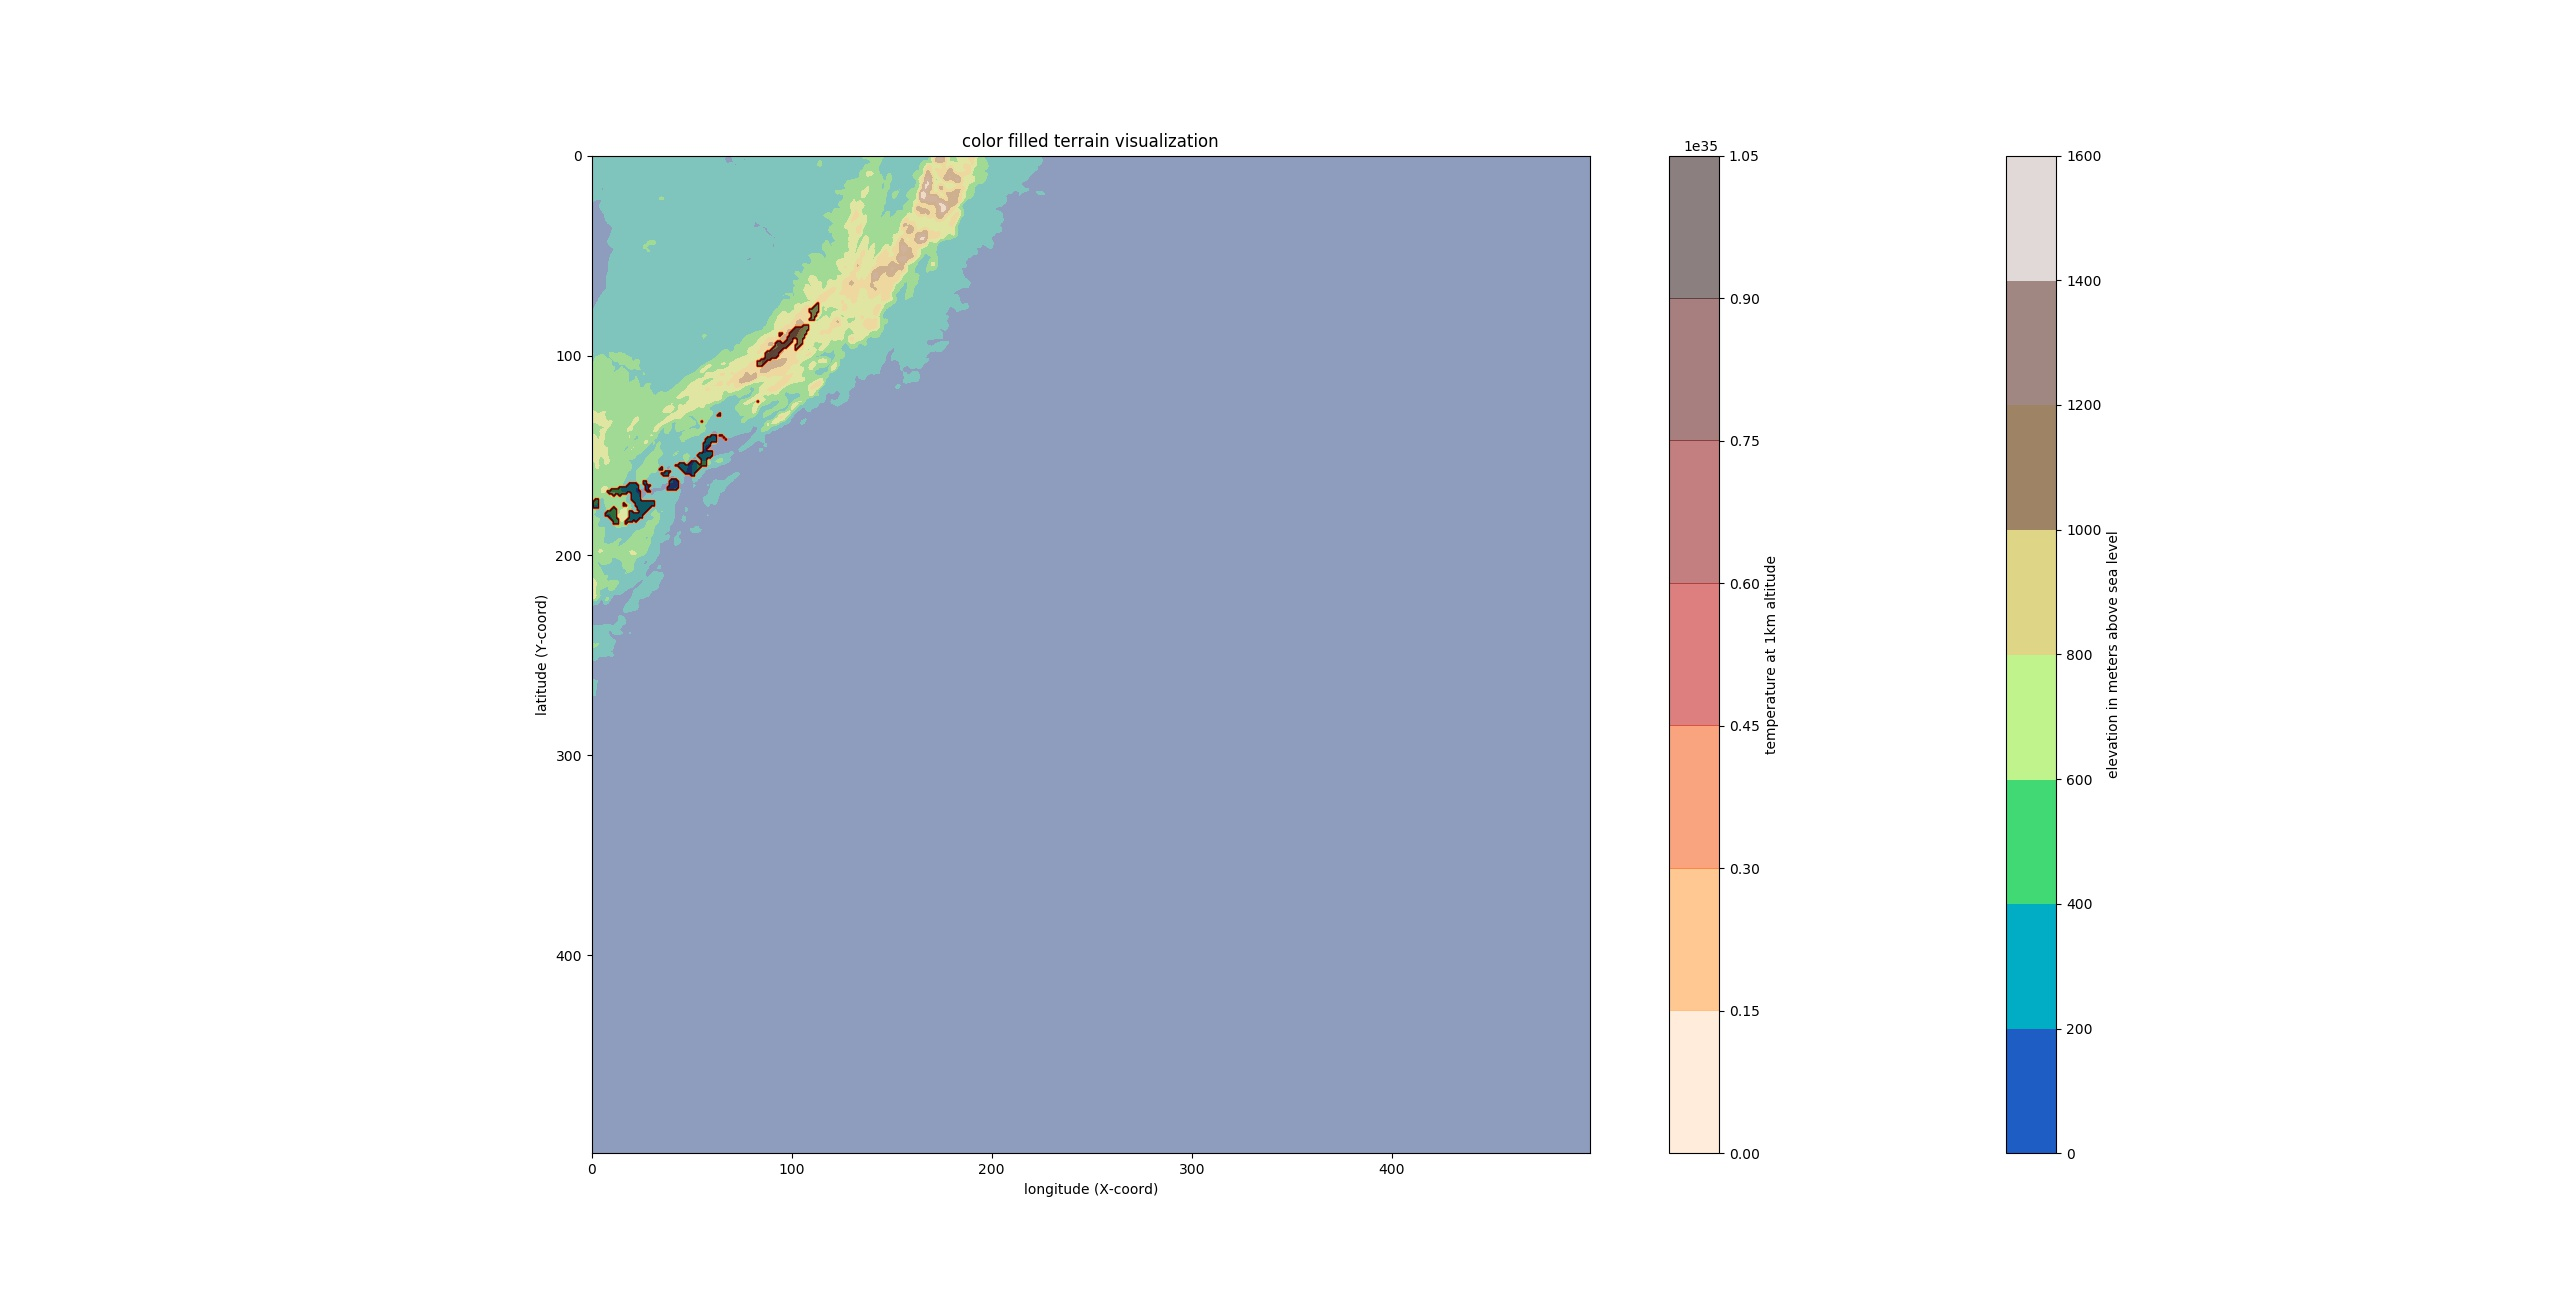
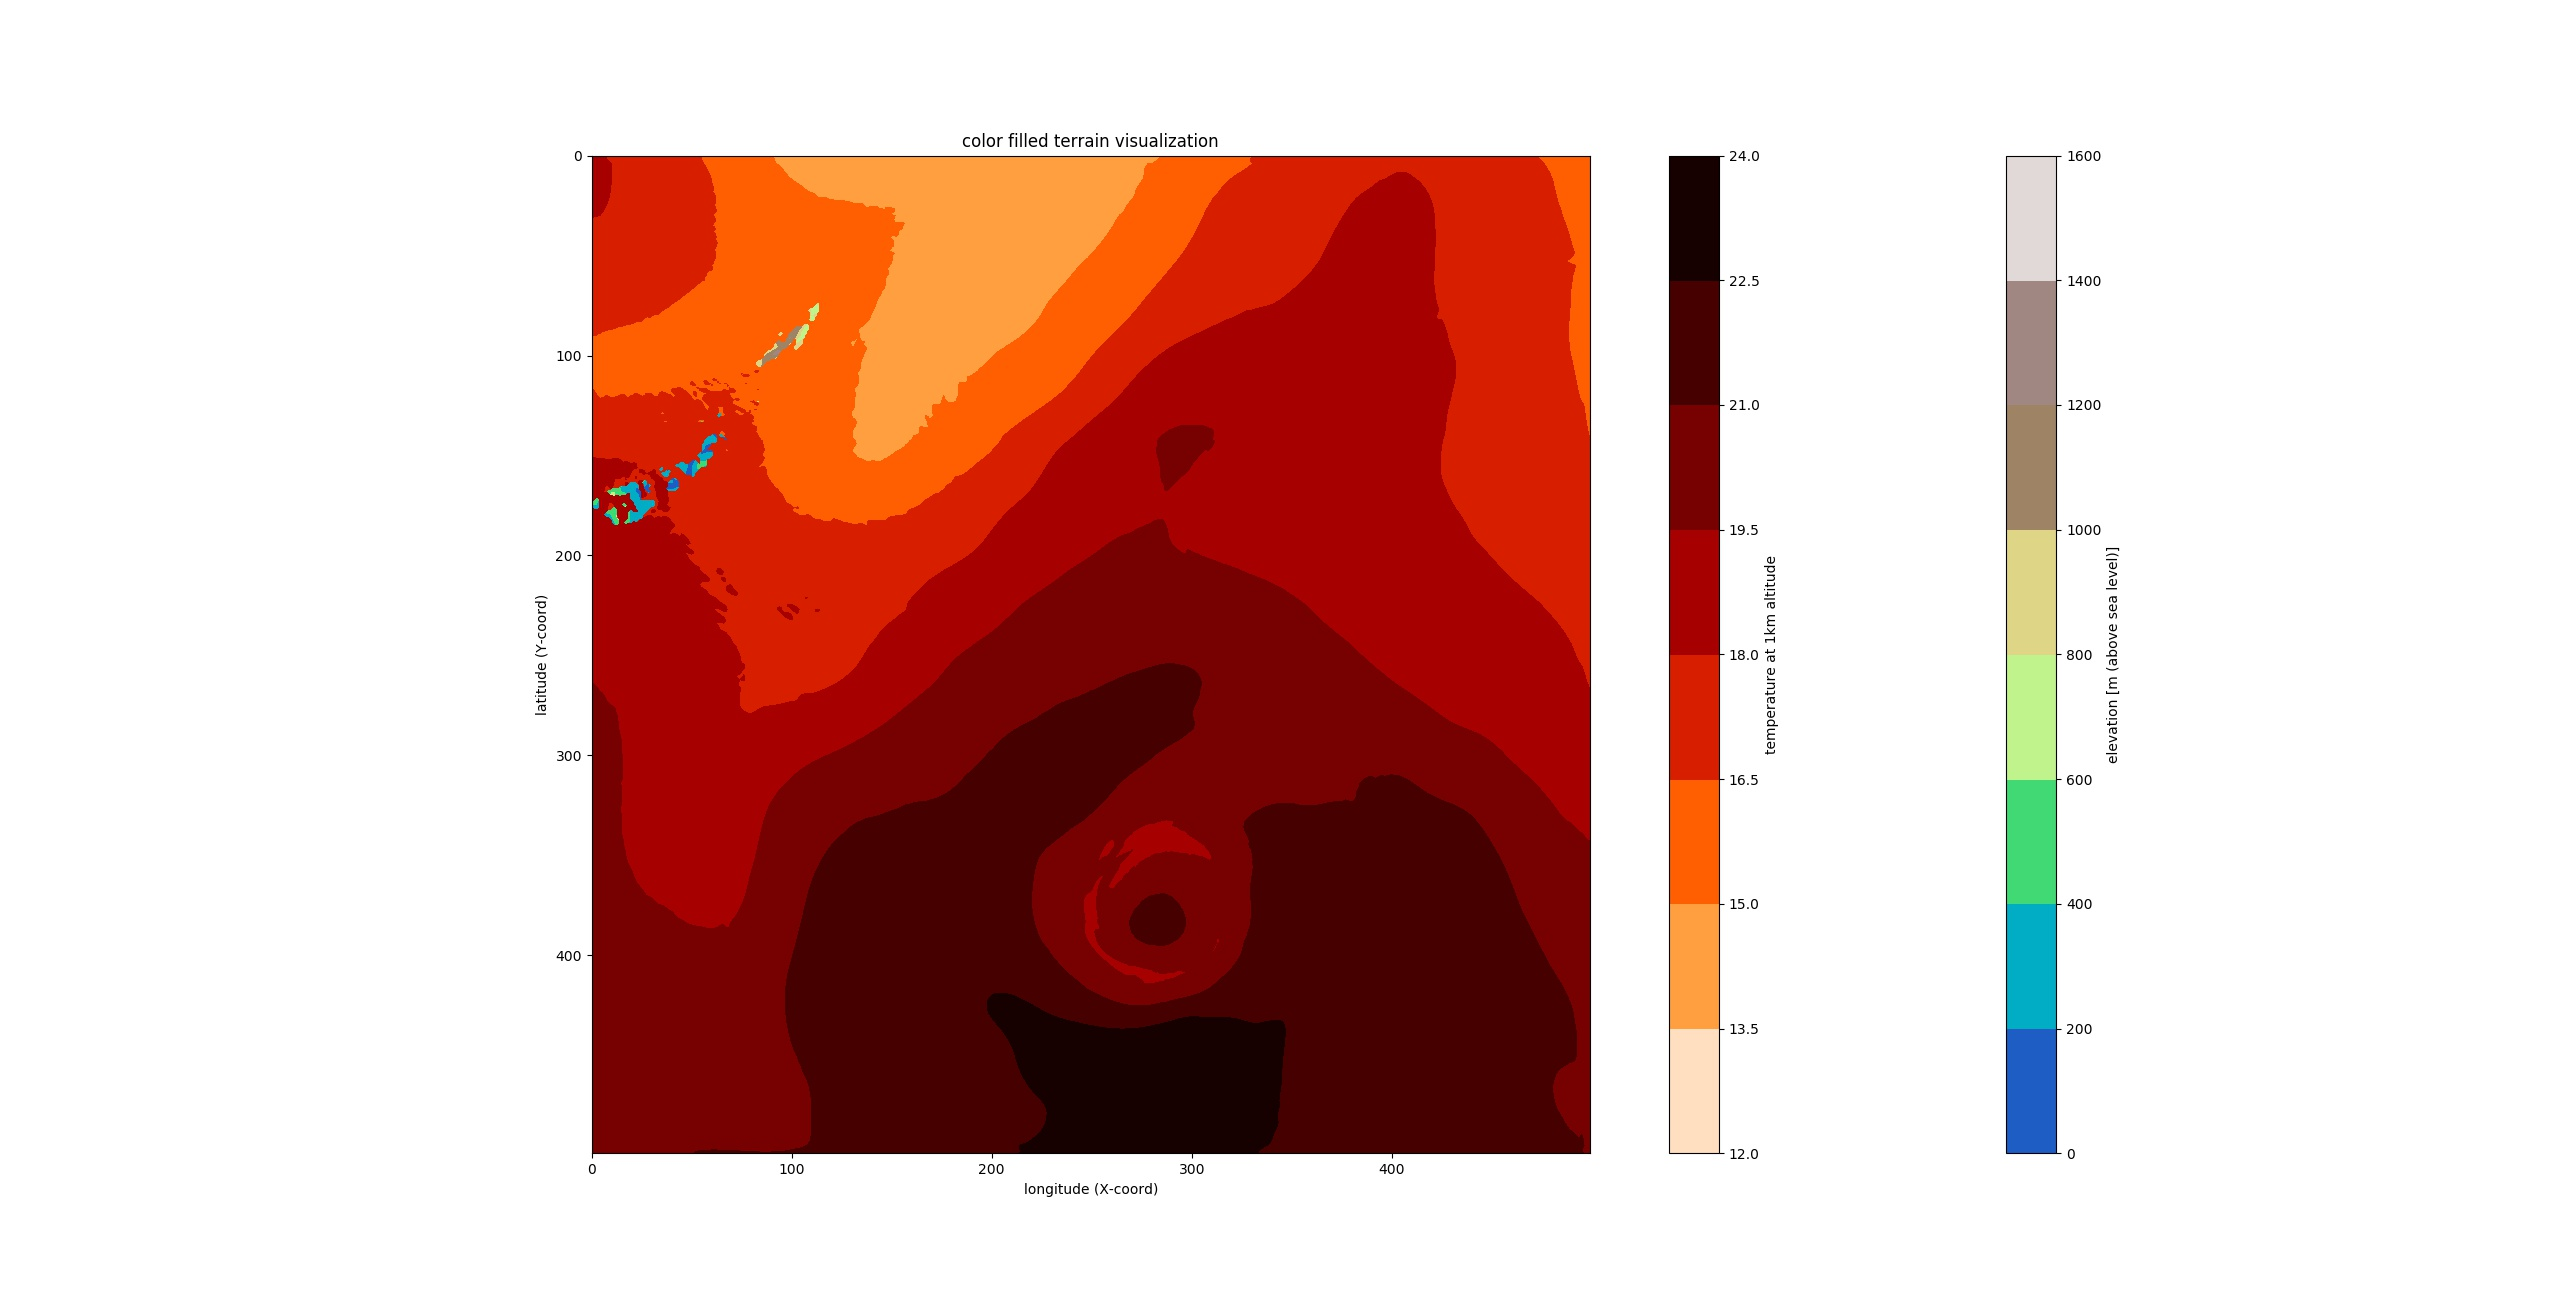
updated ex4_task4.jpeg: replaced corrupted datafile

diff --git a/ex4/ex4_task4.py b/ex4/ex4_task4.py
@@ -8,8 +8,19 @@ import ex4_reader as data_reader
 import matplotlib.pyplot as plt
 import numpy as np
 
+# z-value constants
+MIN_HEIGHT = 0.035
+MAX_HEIGHT = 19.835
+STEP_SIZE = 0.2
+
+# desired height
+HEIGHT = 1.0
+
+# x-values: list containing the heights of the plot
+heights = np.arange(MIN_HEIGHT, MAX_HEIGHT + STEP_SIZE, STEP_SIZE)
+
 # load the terrain data
-terrain_data = data_reader.read_terrain_data()
+terr_data = data_reader.read_terrain_data()
 
 # create the plot 
 fig, plot = plt.subplots()
@@ -23,28 +34,34 @@ plot.set_xlabel("longitude (X-coord)")
 plot.set_ylabel("latitude (Y-coord)")
 plot.set_aspect(1)
 
-# invert the y and x axis
+# invert the y axis
 plot.invert_yaxis()
 
-# plot the data
-terrain_plot = plot.contourf(terrain_data, alpha=1.0, cmap='terrain')
+# plot the terrain data layer
+terr_plot = plot.contourf(terr_data, cmap='terrain')
 
 # colorbar for the terrain_plot
-plot_colorbar = plt.colorbar(terrain_plot)
-plot_colorbar.set_label("elevation in meters above sea level")
+plot_colorbar = plt.colorbar(terr_plot)
+plot_colorbar.set_label("elevation [m (above sea level)]")
 
 # index for z-value at altitude: 1km
-# start at: 0.035 step size: 0.2 step 5: 1.035km
-HEIGHT = 5
+index = 0
+
+# find the correct index for the HEIGHT
+for i in range(len(heights)):
+    if heights[i] > HEIGHT:
+        index = i
+        break
 
 # load the temperature data: hour 1
-temp_hour1 = data_reader.read_geo_data('TC', 1)
+temp_hour_1 = data_reader.read_geo_data('TC', 1)
 
 # y-values: list of temperature data for location (200, 250)
-temp_data = temp_hour1[:, :, HEIGHT]
+temp_data = temp_hour_1[:, :, index]
+print(temp_data)
 
 # plotting the temperature data
-temp_plot = plot.contourf(temp_data, alpha=0.5, cmap="gist_heat_r")
+temp_plot = plot.contourf(temp_data, cmap="gist_heat_r", alpha=1.0)
 
 # colorbar for the temp_plot
 plot_colorbar = plt.colorbar(temp_plot)
